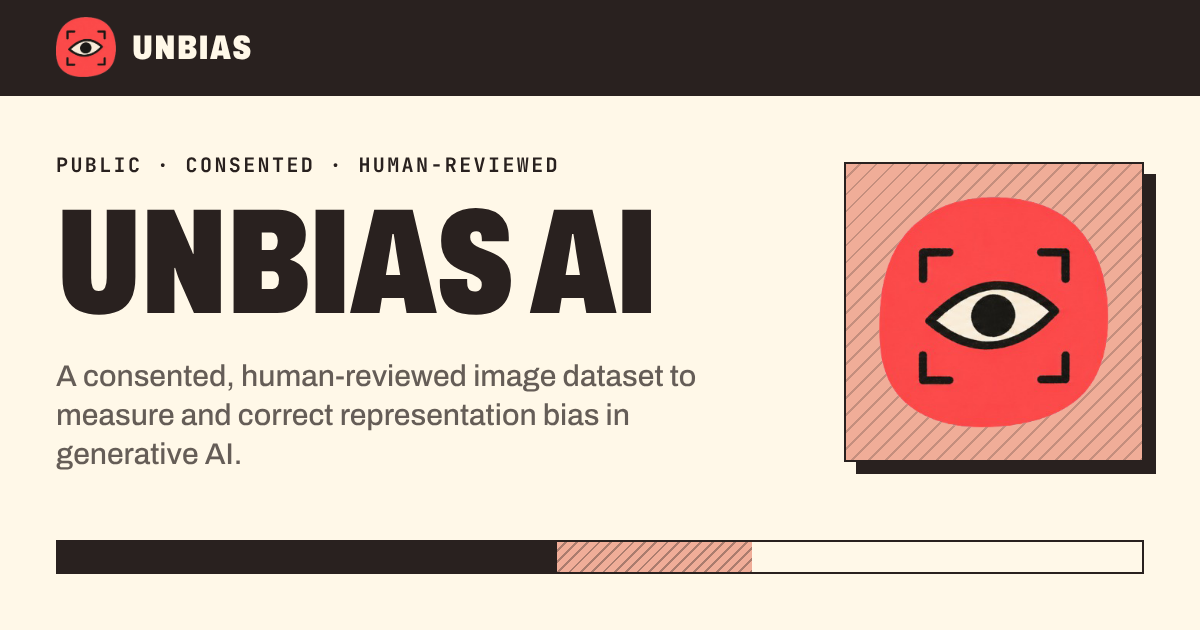
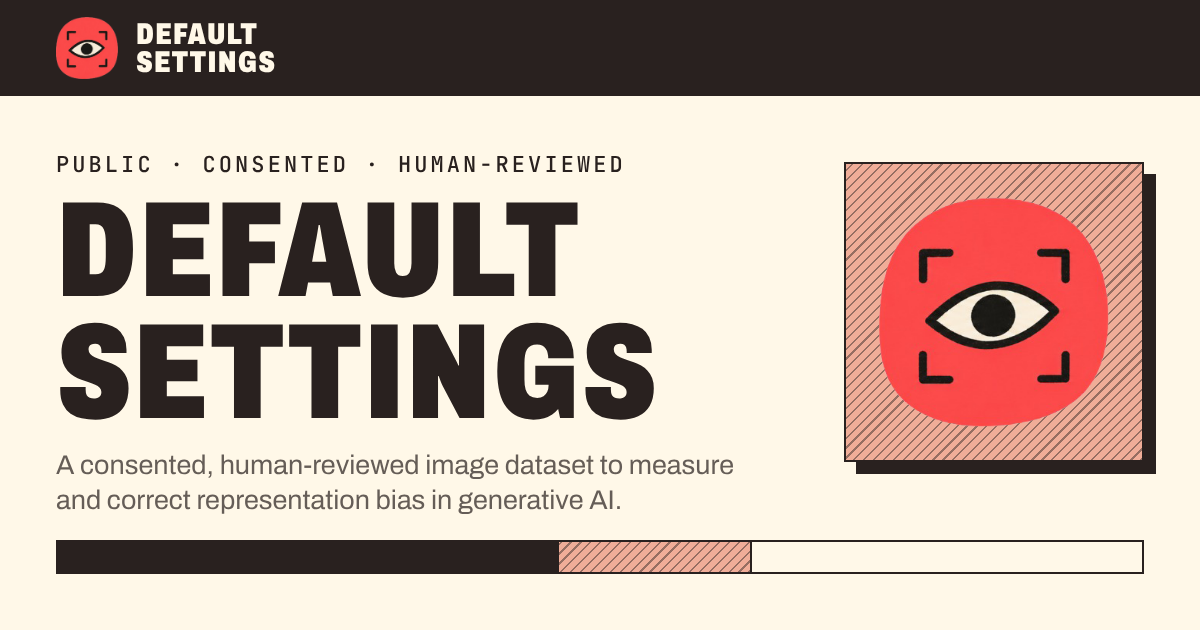
Rename the public-facing name to Default settings everywhere in the app text
Claude-Session: https://claude.ai/code/session_013GHDcnTGjpuZzeiAz6KpgS

diff --git a/app/frontend/i18n/locales/fr.js b/app/frontend/i18n/locales/fr.js
@@ -341,7 +341,7 @@ export const fr = {
   about: {
     title: "Construire une meilleure image de nous-mêmes",
     intro:
-      "Les modèles d'images génératives participent désormais à la façon dont les gens sont représentés. Leur image de la société n'est pas neutre : demandez quelque chose de neutre et les mêmes visages, corps et décors reviennent. Unbias AI est une initiative culturelle et open source qui demande si l'on peut mesurer ce biais, construire collectivement de meilleures données de représentation, adapter des modèles ouverts, puis mesurer à nouveau.",
+      "Les modèles d'images génératives participent désormais à la façon dont les gens sont représentés. Leur image de la société n'est pas neutre : demandez quelque chose de neutre et les mêmes visages, corps et décors reviennent. « Paramètres par défaut » est une initiative culturelle et open source qui demande si l'on peut mesurer ce biais, construire collectivement de meilleures données de représentation, adapter des modèles ouverts, puis mesurer à nouveau.",
     loop: "Cette plateforme est l'étape de collecte. Chacun peut contribuer ses propres photos, ou celles de personnes qui ont donné leur accord, décrire qui est visible, et une vraie personne vérifie chaque image avant qu'elle ne rejoigne le jeu de données. L'objectif de cette première étape : 10 000 personnes représentées.",
     howTitle: "Comment ça marche",
     steps: {
@@ -405,12 +405,12 @@ export const fr = {
       boost: {
         q: "Pourquoi le tableau de bord affiche-t-il plus de photos que ce qui a vraiment été envoyé ?",
         loading: "Chargement des chiffres actuels…",
-        a: "On hésite à être la première personne à participer ; il est bien établi qu'un projet qui a déjà des contributeurs en attire davantage. Pour donner de l'élan à Unbias AI au lancement, le tableau de bord ajoute temporairement un coup de pouce de lancement à ces chiffres et aux barres « approuvées » des graphiques par catégorie. Photos reçues : {realPhotos} réellement envoyées + {addedPhotos} ajoutées = {shownPhotos} affichées. Personnes représentées : {realPeople} réellement approuvées + {addedPeople} ajoutées = {shownPeople} affichées. La part ajoutée ne correspond pas à de vraies contributions. Elle diminue à mesure que les vraies contributions arrivent et disparaît complètement dès que {until} photos ont réellement été envoyées (pour les personnes : dès que {until} personnes sont réellement approuvées). Chaque barre des graphiques par catégorie reçoit une part proportionnelle du coup de pouce aux personnes et la perd à mesure que sa catégorie se remplit : ces barres ne sont donc pas non plus des comptes réels. À partir de là, le tableau de bord n'affiche plus que des chiffres réels. Les nombres en attente sont toujours réels.",
+        a: "On hésite à être la première personne à participer ; il est bien établi qu'un projet qui a déjà des contributeurs en attire davantage. Pour donner de l'élan à « Paramètres par défaut » au lancement, le tableau de bord ajoute temporairement un coup de pouce de lancement à ces chiffres et aux barres « approuvées » des graphiques par catégorie. Photos reçues : {realPhotos} réellement envoyées + {addedPhotos} ajoutées = {shownPhotos} affichées. Personnes représentées : {realPeople} réellement approuvées + {addedPeople} ajoutées = {shownPeople} affichées. La part ajoutée ne correspond pas à de vraies contributions. Elle diminue à mesure que les vraies contributions arrivent et disparaît complètement dès que {until} photos ont réellement été envoyées (pour les personnes : dès que {until} personnes sont réellement approuvées). Chaque barre des graphiques par catégorie reçoit une part proportionnelle du coup de pouce aux personnes et la perd à mesure que sa catégorie se remplit : ces barres ne sont donc pas non plus des comptes réels. À partir de là, le tableau de bord n'affiche plus que des chiffres réels. Les nombres en attente sont toujours réels.",
         over: "On hésite à être la première personne à participer ; pour donner de l'élan au projet au lancement, le tableau de bord a temporairement ajouté un coup de pouce aux chiffres de photos et de personnes. Il est maintenant terminé : le tableau de bord n'affiche que des chiffres réels ({realPhotos} photos envoyées, {realPeople} personnes approuvées).",
       },
       who: {
         q: "Qui est derrière ce projet ?",
-        a: "Unbias AI est lancé par {karmalab} et conçu pour devenir une collaboration ouverte plus large. Tout le code est open source sous licence MIT ; l'accès au jeu de données lui-même reste contrôlé.",
+        a: "« Paramètres par défaut » est lancé par {karmalab} et conçu pour devenir une collaboration ouverte plus large. Tout le code est open source sous licence MIT ; l'accès au jeu de données lui-même reste contrôlé.",
       },
     },
   },

diff --git a/app/frontend/i18n/locales/en.js b/app/frontend/i18n/locales/en.js
@@ -335,7 +335,7 @@ export const en = {
   about: {
     title: "Let's build a better picture of ourselves",
     intro:
-      "Generative image models now take part in how people are pictured. Their picture of society is not neutral: ask for a neutral prompt and the same faces, bodies and settings tend to come back. Unbias AI is a cultural, open-source initiative that asks whether we can measure this bias, collectively build better representation data, adapt open models, and measure again.",
+      "Generative image models now take part in how people are pictured. Their picture of society is not neutral: ask for a neutral prompt and the same faces, bodies and settings tend to come back. “Default settings” is a cultural, open-source initiative that asks whether we can measure this bias, collectively build better representation data, adapt open models, and measure again.",
     loop: "This platform is the collecting step. People contribute their own photos, or photos of people who gave permission, describe who is visible, and a real person reviews every image before it joins the dataset. The goal of this first milestone is 10,000 people represented.",
     howTitle: "How it works",
     steps: {
@@ -399,12 +399,12 @@ export const en = {
       boost: {
         q: "Why does the dashboard show more photos than were really uploaded?",
         loading: "Loading the current figures…",
-        a: "People hesitate to be the first to take part; it is well documented that a project that already has contributors attracts more. So, to give Unbias AI momentum at launch, the dashboard temporarily adds a launch boost to these figures and to the approved bars of the charts by category. Photos contributed: {realPhotos} really uploaded + {addedPhotos} added = {shownPhotos} shown. People represented: {realPeople} really approved + {addedPeople} added = {shownPeople} shown. The added part is not real contributions. It shrinks as real contributions arrive and disappears completely once {until} photos have really been uploaded (for people: once {until} people are really approved). Each bar in the charts by category gets a proportional share of the people boost and loses it as that category fills up, so those bars are not real counts either. From then on the dashboard shows only real numbers. The pending counts always show real numbers only.",
+        a: "People hesitate to be the first to take part; it is well documented that a project that already has contributors attracts more. So, to give “Default settings” momentum at launch, the dashboard temporarily adds a launch boost to these figures and to the approved bars of the charts by category. Photos contributed: {realPhotos} really uploaded + {addedPhotos} added = {shownPhotos} shown. People represented: {realPeople} really approved + {addedPeople} added = {shownPeople} shown. The added part is not real contributions. It shrinks as real contributions arrive and disappears completely once {until} photos have really been uploaded (for people: once {until} people are really approved). Each bar in the charts by category gets a proportional share of the people boost and loses it as that category fills up, so those bars are not real counts either. From then on the dashboard shows only real numbers. The pending counts always show real numbers only.",
         over: "People hesitate to be the first to take part, so to give the project momentum at launch the dashboard temporarily added a launch boost to the photo and people counts. That boost has now ended: the dashboard shows only real numbers ({realPhotos} photos uploaded, {realPeople} people approved).",
       },
       who: {
         q: "Who is behind this?",
-        a: "Unbias AI is started by {karmalab} and designed to grow into a broader open collaboration. All code is open source under the MIT license; access to the dataset itself stays controlled.",
+        a: "“Default settings” is started by {karmalab} and designed to grow into a broader open collaboration. All code is open source under the MIT license; access to the dataset itself stays controlled.",
       },
     },
   },

diff --git a/app/frontend/components/public/PublicHeader.js b/app/frontend/components/public/PublicHeader.js
@@ -2,6 +2,7 @@ import { useEffect, useRef, useState } from "react";
 import { Link, NavLink, useLocation } from "react-router-dom";
 import { Bars3Icon, XMarkIcon } from "@heroicons/react/24/outline";
 import InstagramIcon from "~/components/ui/InstagramIcon";
+import Wordmark from "~/components/ui/Wordmark";
 import iconEye from "~/images/icons/icon_eye.png";
 import { t } from "~/i18n";
 import { INSTAGRAM_URL } from "~/lib/social";
@@ -46,10 +47,7 @@ export default function PublicHeader() {
             alt=""
             className="h-10 w-10 max-[359px]:h-9 max-[359px]:w-9 md:h-13 md:w-13"
           />
-          <span className="display-caps flex flex-col text-[17px] leading-[0.95] tracking-[0.04em] max-[359px]:text-[14px] md:text-[26px]">
-            <span>{t("brand.line1")}</span>
-            <span>{t("brand.line2")}</span>
-          </span>
+          <Wordmark />
         </Link>
         <nav
           aria-label={t("nav.main")}

diff --git a/app/frontend/components/experience/BiasExperience.js b/app/frontend/components/experience/BiasExperience.js
@@ -3,6 +3,7 @@ import { Link } from "react-router-dom";
 import { ArrowPathIcon, ArrowRightIcon } from "@heroicons/react/24/outline";
 import FlipGrid, { waveTotalMs } from "~/components/experience/FlipGrid";
 import iconEye from "~/images/icons/icon_eye.png";
+import Wordmark from "~/components/ui/Wordmark";
 import { api } from "~/lib/api";
 import {
   imagePaths,
@@ -268,9 +269,7 @@ export default function BiasExperience({ presentation = false }) {
         {presentation && (
           <div className="flex items-center gap-3">
             <img src={iconEye} alt="" className="h-16 w-16" />
-            <span className="display-caps text-[38px] leading-none tracking-[0.04em]">
-              Unbias
-            </span>
+            <Wordmark className="text-[32px]" />
           </div>
         )}
         <div

diff --git a/app/frontend/components/staff/StaffShell.js b/app/frontend/components/staff/StaffShell.js
@@ -1,5 +1,6 @@
 import { Link, Navigate, NavLink, useLocation } from "react-router-dom";
 import iconEye from "~/images/icons/icon_eye.png";
+import Wordmark from "~/components/ui/Wordmark";
 import { useAuth } from "~/lib/auth";
 import { t } from "~/i18n";
 
@@ -42,9 +43,7 @@ export default function StaffShell({ children, wide = true }) {
             className="flex items-center gap-3"
           >
             <img src={iconEye} alt="" className="h-13 w-13" />
-            <span className="display-caps text-[30px] leading-none tracking-[0.04em]">
-              Unbias
-            </span>
+            <Wordmark className="text-[26px]" />
           </Link>
           <nav className="mono-caps flex items-center gap-1 text-[13px] tracking-[0.08em]">
             <NavLink to="/moderation" className={link}>

diff --git a/app/frontend/components/AuthLayout.js b/app/frontend/components/AuthLayout.js
@@ -1,5 +1,6 @@
 import { Link } from "react-router-dom";
 import iconEye from "~/images/icons/icon_eye.png";
+import Wordmark from "~/components/ui/Wordmark";
 import { inputClass } from "~/components/ui/Field";
 import { t } from "~/i18n";
 
@@ -14,9 +15,7 @@ export default function AuthLayout({ title, subtitle, children }) {
             className="flex items-center gap-3"
           >
             <img src={iconEye} alt="" className="h-13 w-13" />
-            <span className="display-caps text-[30px] leading-none tracking-[0.04em]">
-              Unbias
-            </span>
+            <Wordmark className="text-[26px]" />
           </Link>
         </div>
       </header>

diff --git a/app/frontend/components/public/PublicFooter.js b/app/frontend/components/public/PublicFooter.js
@@ -9,7 +9,9 @@ export default function PublicFooter({ tone = "light" }) {
     >
       <div className="mono-caps md:px-gutter mx-auto flex max-w-[1512px] flex-col gap-4 px-4 py-5 text-[12px] md:flex-row md:items-center md:justify-between">
         <nav className="flex flex-wrap items-center gap-x-3 gap-y-2">
-          <span>Unbias — {t("footer.platform")}</span>
+          <span>
+            {t("home.title")} — {t("footer.platform")}
+          </span>
           <span aria-hidden="true">·</span>
           <Link to="/about" className="hover:underline">
             {t("nav.whatIsThis")}

diff --git a/public/406-unsupported-browser.html b/public/406-unsupported-browser.html
@@ -30,7 +30,8 @@
       }
       header img { width: 52px; height: 52px; }
       header span {
-        font-size: 30px;
+        font-size: 26px;
+        line-height: 0.95;
         font-weight: 900;
         font-stretch: 75%;
         letter-spacing: 0.04em;
@@ -73,7 +74,7 @@
     <!-- This file lives in public/406-unsupported-browser.html -->
     <header>
       <img src="/icon.png" alt="">
-      <span>Unbias</span>
+      <span>Default<br>settings</span>
     </header>
     <main>
       <article>

diff --git a/public/400.html b/public/400.html
@@ -30,7 +30,8 @@
       }
       header img { width: 52px; height: 52px; }
       header span {
-        font-size: 30px;
+        font-size: 26px;
+        line-height: 0.95;
         font-weight: 900;
         font-stretch: 75%;
         letter-spacing: 0.04em;
@@ -73,7 +74,7 @@
     <!-- This file lives in public/400.html -->
     <header>
       <img src="/icon.png" alt="">
-      <span>Unbias</span>
+      <span>Default<br>settings</span>
     </header>
     <main>
       <article>

diff --git a/public/404.html b/public/404.html
@@ -30,7 +30,8 @@
       }
       header img { width: 52px; height: 52px; }
       header span {
-        font-size: 30px;
+        font-size: 26px;
+        line-height: 0.95;
         font-weight: 900;
         font-stretch: 75%;
         letter-spacing: 0.04em;
@@ -73,7 +74,7 @@
     <!-- This file lives in public/404.html -->
     <header>
       <img src="/icon.png" alt="">
-      <span>Unbias</span>
+      <span>Default<br>settings</span>
     </header>
     <main>
       <article>

diff --git a/public/422.html b/public/422.html
@@ -30,7 +30,8 @@
       }
       header img { width: 52px; height: 52px; }
       header span {
-        font-size: 30px;
+        font-size: 26px;
+        line-height: 0.95;
         font-weight: 900;
         font-stretch: 75%;
         letter-spacing: 0.04em;
@@ -73,7 +74,7 @@
     <!-- This file lives in public/422.html -->
     <header>
       <img src="/icon.png" alt="">
-      <span>Unbias</span>
+      <span>Default<br>settings</span>
     </header>
     <main>
       <article>

diff --git a/public/500.html b/public/500.html
@@ -30,7 +30,8 @@
       }
       header img { width: 52px; height: 52px; }
       header span {
-        font-size: 30px;
+        font-size: 26px;
+        line-height: 0.95;
         font-weight: 900;
         font-stretch: 75%;
         letter-spacing: 0.04em;
@@ -73,7 +74,7 @@
     <!-- This file lives in public/500.html -->
     <header>
       <img src="/icon.png" alt="">
-      <span>Unbias</span>
+      <span>Default<br>settings</span>
     </header>
     <main>
       <article>
